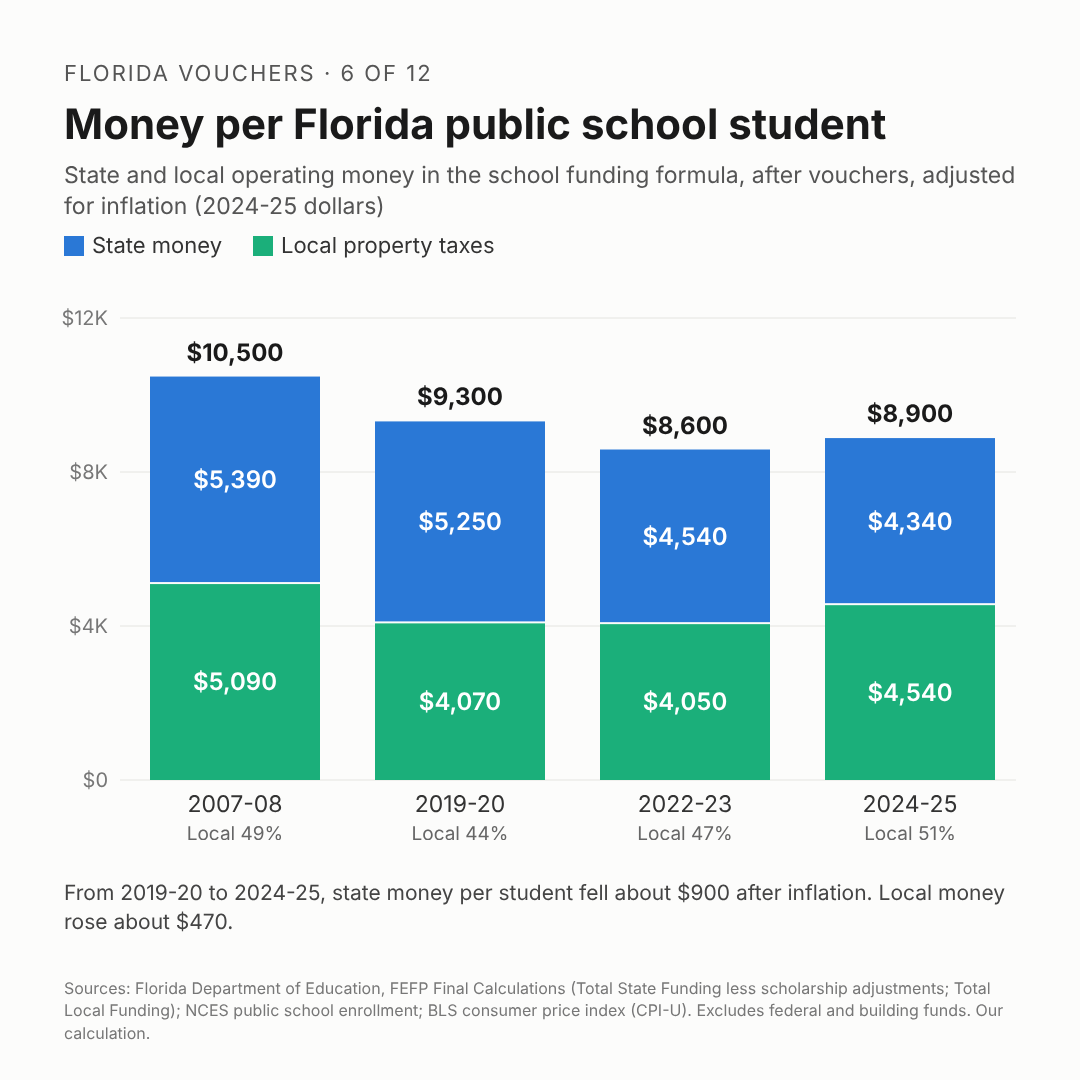
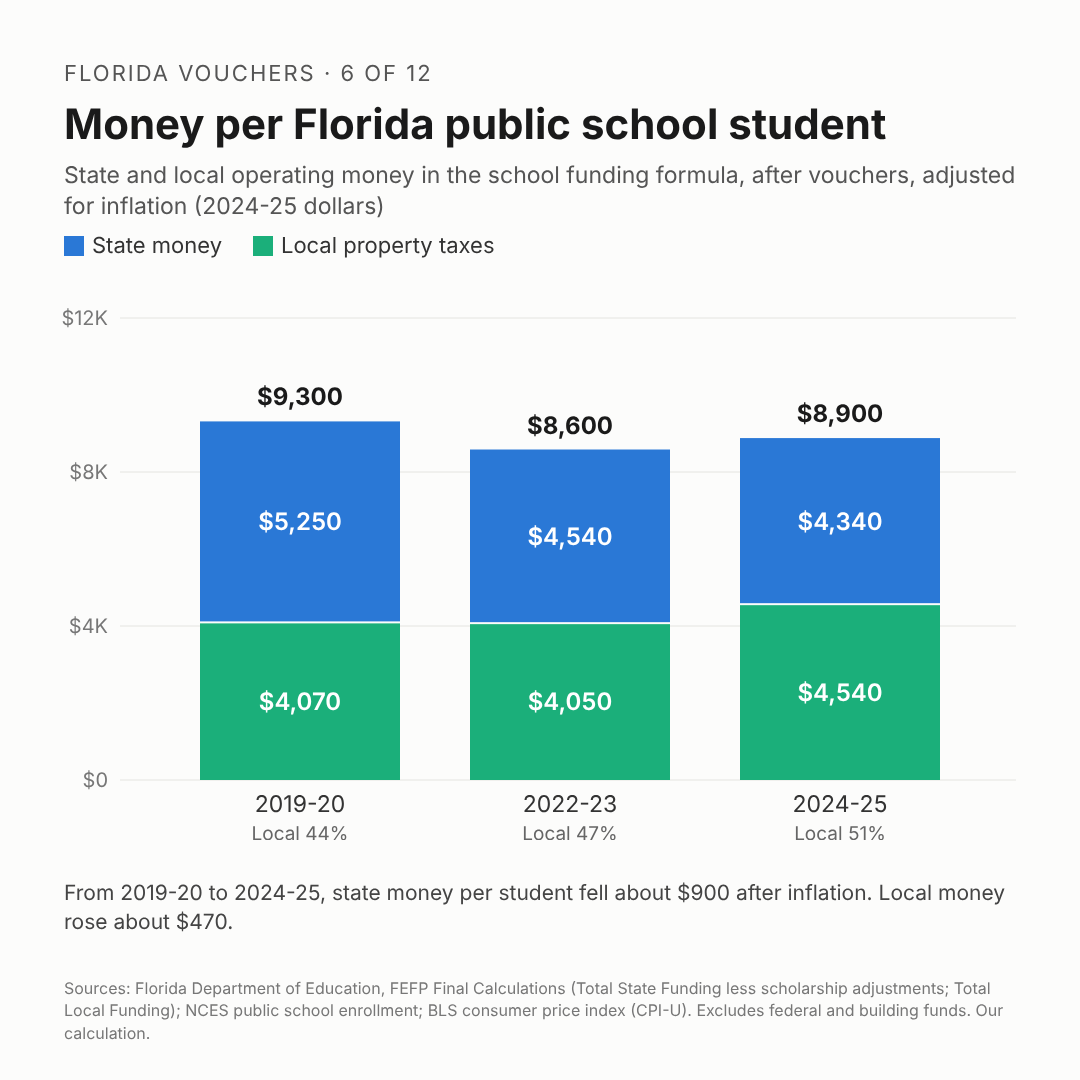
Post 6 draft 2: rewrite around the property tax cushion and its limits
Claude-Session: https://claude.ai/code/session_016LYyWm4MBRFt2tmnYoAYw5

Changed region(s): [[0.1222, 0.3056, 0.9472, 0.7944]]

diff --git a/series/florida-vouchers/06-money-per-student/post.md b/series/florida-vouchers/06-money-per-student/post.md
@@ -1,5 +1,5 @@
 ---
-title: "Florida's Public Schools Lean More on Property Taxes"
+title: "Florida's Public Schools Now Lean on Rising Property Values"
 series: florida-vouchers
 number: 6
 status: draft
@@ -9,7 +9,7 @@ updated: 2026-11-05
 
 # Post 6 of 12: Public schools' money per student, and the property tax backstop
 
-Draft 1, 5 Nov 2026. Plain declarative prose, in date order, in the style RJ settled on for posts 4 and 5. Parts: the post text, the first comment (sources), the fact-check table, the notes (details kept out of the main text), and the editor's notes. Image: [image.png](image.png).
+Draft 2, 5 Nov 2026. Rewritten around the risk at RJ's request. Plain declarative prose, in date order. Parts: the post text, the first comment (sources), the fact-check table, the notes (details kept out of the main text), and the editor's notes. Image: [image.png](image.png).
 
 ---
 
@@ -17,27 +17,27 @@ Draft 1, 5 Nov 2026. Plain declarative prose, in date order, in the style RJ set
 
 Florida vouchers, 6 of 12
 
-Florida's Public Schools Lean More on Property Taxes
+Florida's Public Schools Now Lean on Rising Property Values
 
-From 2019-20 to 2024-25, the state money left for Florida's public schools after vouchers barely grew. Local property taxes grew much faster. They now pay more than half of what public schools get from the state's school funding formula.
+Since 2019, vouchers have taken almost all of the new state money for Florida's schools. Public schools held close to even because local property taxes rose with property values. That works only as long as values keep rising and school taxes stay in place.
 
-Florida pays for public schools' day-to-day costs through one formula. The money comes from two places: the state budget and local school property taxes. Each year, the Legislature decides how much property tax school districts must raise in all. The state's education commissioner then sets the tax rate each district must levy. Districts may add a smaller tax of their own. As the last post explained, voucher money comes out of the state's part.
+In 2019-20, Florida's school funding formula gave public schools about $9,300 per student, in 2024-25 dollars. The state paid 56 percent and local school property taxes paid the rest. Each year, lawmakers set the formula's total and decide how much of it property taxes must raise. The state pays the rest.
 
-In 2007-08, the formula gave public schools about $10,500 per student, in 2024-25 dollars. The state and property taxes each paid about half. These figures are our calculation from the Department of Education's final funding reports and federal enrollment counts, adjusted for inflation with the federal consumer price index.
+Over the next five years, the state's school money rose $3.1 billion, according to the Department of Education. Vouchers took $2.8 billion of it. The state money left for public schools rose $270 million, or 2 percent. Prices rose about 24 percent over the same years. The number of public school students stayed about the same, at 2.86 million, according to federal data.
 
-Money per student fell in the recession that followed. By 2019-20, it was about $9,300 after inflation, and the state paid 56 percent. The property tax lawmakers required that year was $7.9 billion, about the same as in 2007-08 before inflation.
+Property taxes filled most of the gap. The value of property for school taxes rose by two-thirds. Lawmakers raised the property tax they require from districts from $7.9 billion to $10.4 billion, even as the tax rate fell by about a fifth. With districts' own taxes added, local money for public schools rose $3.6 billion, or 38 percent. These dollar figures are not adjusted for inflation.
 
-Then property values rose. From 2019-20 to 2024-25, the taxable value of property for school taxes rose by two-thirds, according to the department. Lawmakers raised the required property tax to $10.4 billion. The tax rate fell by about a fifth, but the higher values brought in more money. With districts' own taxes added, local money for public schools rose $3.6 billion, or 38 percent.
+After inflation, the state's money per public school student fell from about $5,250 to $4,340. Local money rose from about $4,070 to $4,540. In 2024-25, property taxes paid 51 percent. These per-student figures are our calculation from the department's final funding reports, federal enrollment counts and the federal consumer price index.
 
-Over the same years, the state's school money rose $3.1 billion. Vouchers took $2.8 billion of it. The part left for public schools rose $270 million, or 2 percent. These dollar figures are not adjusted for inflation. The number of public school students was about the same in both years, 2.86 million, according to federal data.
+In all, money per student fell about 5 percent, to about $8,900. Most of the drop came by 2022-23, when inflation was high and before vouchers were open to every child. Since then, the total has risen a little, because property taxes grew.
 
-After inflation, the state's money per public school student fell from about $5,250 to $4,340. Local money rose from about $4,070 to $4,540. By 2023-24, property taxes paid half the total. In 2024-25, they paid 51 percent.
+The cushion has limits. If property values flatten, lawmakers must add state money or let money per student fall. Vouchers are paid first: when the formula's money runs short during a year, the law pays vouchers in full and cuts what districts get, Senate staff wrote in 2025.
 
-The total fell about 5 percent, from about $9,300 to $8,900 per student. It fell to about $8,600 by 2022-23, when inflation was high and before vouchers were open to every child. It has risen a little since then, as property taxes grew.
+This year, Gov. Ron DeSantis pushed a constitutional amendment to cut homeowners' property taxes. In June, lawmakers changed it so that it does not apply to school taxes. Voters approved it on Nov. 3.
 
 Sen. Danny Burgess, a Zephyrhills Republican who chairs the Senate's budget committee for public schools, said in May that the new budget "increases per student funding by $150." That is about 1.6 percent, before inflation. Andrew Spar, president of the Florida Education Association, the state teachers union, said in 2025: "Draining dollars out of public schools leaves our public schools short."
 
-In 2007-08, the state and property taxpayers each paid about half. By 2024-25, property taxes paid the larger share, and the state's money per public school student was about a fifth lower after inflation. The next post looks at what this means for a school district, and whether it can cut its costs when students leave.
+In 2019-20, the state paid most of public schools' money. By 2024-25, property taxes paid more, and the state's part per student was about a sixth lower after inflation. The next post looks at what this means for a school district, and whether it can cut its costs when students leave.
 
 Sources are in the first comment.
 
@@ -47,12 +47,15 @@ Sources are in the first comment.
 
 Sources for this post:
 
-1. State and local money in the school funding formula, voucher deductions, the required property tax, tax rates and taxable values (and the image): Florida Department of Education, FEFP Final Calculations for 2007-08 (https://www.fldoe.org/file/7507/0077043-07-08fefp-finalcalc-1.pdf), 2019-20 (https://www.fldoe.org/file/7507/1920FEFPFinalCalc.pdf), 2022-23 (https://www.fldoe.org/file/7507/22-23FEFPFinalCalc.pdf), 2023-24 (https://www.fldoe.org/file/7507/23-24FEFPFinalCalc.pdf) and 2024-25 (https://cdn.fldoe.org/file/7507/2425FEFPFinal.pdf).
+1. State and local money in the school funding formula, voucher deductions, the required property tax, tax rates and taxable values (and the image): Florida Department of Education, FEFP Final Calculations for 2019-20 (https://www.fldoe.org/file/7507/1920FEFPFinalCalc.pdf), 2022-23 (https://www.fldoe.org/file/7507/22-23FEFPFinalCalc.pdf) and 2024-25 (https://cdn.fldoe.org/file/7507/2425FEFPFinal.pdf).
 2. How the required property tax is set: Section 1011.62(4), Florida Statutes. https://www.leg.state.fl.us/Statutes/index.cfm?App_mode=Display_Statute&URL=1000-1099%2F1011%2FSections%2F1011.62.html
-3. Public school enrollment (and the image): National Center for Education Statistics, Digest of Education Statistics, Table 36 (2012) for fall 2007 (https://nces.ed.gov/programs/digest/d12/tables/dt12_036.asp) and Table 203.20 (2023) for fall 2019 and 2022 (https://nces.ed.gov/programs/digest/d23/tables/dt23_203.20.asp); Common Core of Data state summaries for 2023-24 (https://nces.ed.gov/ccd/tables/202324_summary_2.asp) and 2024-25 (https://nces.ed.gov/ccd/tables/202425_summary_2.asp).
+3. Public school enrollment (and the image): National Center for Education Statistics, Digest of Education Statistics, Table 203.20 (2023) for fall 2019 and 2022 (https://nces.ed.gov/programs/digest/d23/tables/dt23_203.20.asp); Common Core of Data state summary for 2024-25 (https://nces.ed.gov/ccd/tables/202425_summary_2.asp).
 4. Inflation (and the image): U.S. Bureau of Labor Statistics, consumer price index for all urban consumers (CPI-U), semiannual averages, via the Federal Reserve Bank of St. Louis. https://fred.stlouisfed.org/series/CUUS0000SA0
-5. Sen. Burgess's statement and the Senate's per-student figures: Florida Senate, "Florida's Balanced Budget Holds the Line on Spending, Maintains Strong Reserves," May 26, 2026, with budget summary. https://flsenate.gov/PublishedContent/Offices/President/Budget_Release_and_Summary_Combined.pdf
-6. Andrew Spar's statement: Danielle Prieur, "DeSantis pitched a record-size education budget," Central Florida Public Media / WUSF, Feb. 4, 2025. https://www.wusf.org/education/2025-02-04/desantis-pitched-record-size-education-budget-florida-teacher-union-concerns
+5. Vouchers paid in full when the money runs short: Florida Senate bill analysis, CS/SB 318, Dec. 12, 2025, p. 21. https://flsenate.gov/Session/Bill/2026/318/Analyses/2026s00318.ap.PDF
+6. The property tax amendment and its exclusion of school taxes: CS/HJR 1-F (2026 Special Session F), bill history and House staff analysis, June 16, 2026 (https://flsenate.gov/Session/Bill/2026F/1); Bloomberg News, via Insurance Journal, "DeSantis Plan to Cut Florida Property Taxes Heads to Ballot—With Schools Removed," June 3, 2026 (https://www.insurancejournal.com/news/southeast/2026/06/03/872300.htm).
+7. Voters' approval: WUSF, "Florida voters approve Amendment 3 property tax reduction," Nov. 3, 2026. https://www.wusf.org/politics-issues/2026-11-03/florida-2026-election-results-voters-approve-amendment-3-property-tax-reduction
+8. Sen. Burgess's statement and the Senate's per-student figures: Florida Senate, "Florida's Balanced Budget Holds the Line on Spending, Maintains Strong Reserves," May 26, 2026, with budget summary. https://flsenate.gov/PublishedContent/Offices/President/Budget_Release_and_Summary_Combined.pdf
+9. Andrew Spar's statement: Danielle Prieur, "DeSantis pitched a record-size education budget," Central Florida Public Media / WUSF, Feb. 4, 2025. https://www.wusf.org/education/2025-02-04/desantis-pitched-record-size-education-budget-florida-teacher-union-concerns
 
 ---
 
@@ -70,37 +73,38 @@ Method for every per-student figure: (Total State Funding less the scholarship a
 
 | Claim in the post | Source and what it says |
 |---|---|
-| State money left after vouchers barely grew, 2019-20 to 2024-25 | $12,140.5M to $12,409.9M, up $269.4M (2.2 percent). Final Calculations, table above |
-| Local property taxes grew much faster; now more than half | Total Local Funding $9,415.0M to $12,986.4M, up $3,571.5M (37.9 percent); local share 51.1 percent in 2024-25 (table above) |
-| One formula; state budget plus local school property taxes | Each Final Calculation: "Total State Funding" plus "Total Local Funding" equals total FEFP funding. Section 1011.62, F.S. |
-| Legislature sets the total required property tax; the commissioner sets each district's rate | Section 1011.62(4)(a), F.S.: the Legislature prescribes the aggregate required local effort, and the Commissioner of Education computes and certifies each district's millage, applied to 96 percent of taxable value |
-| Districts may add a smaller tax of their own | 2024-25 Final Calculation: discretionary millage of 0.748 mills raised $2,609,307,687, against $10,377,115,280 in required local effort |
-| Voucher money comes out of the state's part | Final Calculations: "Adjustment for Family Empowerment Scholarships" deducted from the state share (post 5) |
-| 2007-08: about $10,500 per student, in 2024-25 dollars; about half and half | Table above: $10,479; local 48.6 percent, state 51.4 percent |
-| Money per student fell in the recession | Project spreadsheet, "Per student" sheet (same sources, calendar-year CPI): $10,501 (2007-08), $9,997 (2008-09), $8,611 (2011-12), in 2024-25 dollars |
-| 2019-20: about $9,300; state paid 56 percent | Table above: $9,315; state 56.3 percent |
-| Required property tax $7.9 billion in 2019-20, about the same as 2007-08 before inflation | Final Calculations: $7,856,925,320 (2019-20) at 3.888 mills; $7,902,582,747 (2007-08) at 4.843 mills |
-| Taxable value up two-thirds, 2019-20 to 2024-25 | School taxable value $2,169,716,073,407 (2019-20) to $3,633,728,396,941 (2024-25): up 67.5 percent |
-| Required property tax raised to $10.4 billion | 2024-25 Final Calculation: $10,377,115,280 (up 32.1 percent from 2019-20) |
-| Tax rate fell by about a fifth | 3.888 to 3.087 mills: down 20.6 percent |
-| Local money up $3.6 billion, 38 percent | Total Local Funding, table above |
-| State's school money up $3.1 billion; vouchers took $2.8 billion; the rest up $270 million, 2 percent | Total State Funding $12,466.8M to $15,583.7M (up $3,116.9M). Scholarship adjustments $326.3M to $3,173.8M (up $2,847.5M, 91 percent of the increase). Left: up $269.4M (2.2 percent) |
-| Not adjusted for inflation | Nominal, as reported |
-| 2.86 million students in both years | NCES: 2,858,461 (fall 2019); 2,859,600 (2024-25) |
-| State per student $5,250 to $4,340; local $4,070 to $4,540 | Table above: 5,246 to 4,340 (down 906); 4,068 to 4,541 (up 473) |
-| Property taxes paid half by 2023-24; 51 percent in 2024-25 | 2023-24: $12,310.5M / ($12,291.5M + $12,310.5M) = 50.04 percent. 2024-25: 51.1 percent |
-| Total fell about 5 percent, $9,300 to $8,900 | 9,315 to 8,881: down 434, 4.7 percent |
-| About $8,600 by 2022-23; inflation high; vouchers not yet open to every child | 8,584 (table). CPI-U rose 16.5 percent from 2019-20 to 2022-23 (257.23 to 299.69). Universal eligibility began in 2023-24 (Chapter 2023-16, Laws of Florida; post 2) |
-| Risen a little since, as property taxes grew | 8,584 to 8,881 (up 297); local per student up 493, state per student down 196 (table) |
+| Since 2019, vouchers took almost all new state school money | 2019-20 to 2024-25: Total State Funding up $3,116.9M; scholarship adjustments up $2,847.5M (91 percent). Final Calculations |
+| Public schools held close to even | Total per student, 2024-25 dollars: 9,315 to 8,881, down 4.7 percent (table above) |
+| 2019-20: about $9,300 per student; state 56 percent | Table above: $9,315; state 56.3 percent |
+| Lawmakers set the total and the required property tax; the state pays the rest | Section 1011.62(4), F.S.: the Legislature prescribes the aggregate required local effort; the commissioner certifies each district's millage. Each Final Calculation: a district's state share is its formula total less its required local effort and discretionary local funds |
+| State money up $3.1B; vouchers took $2.8B; the rest up $270M, 2 percent | Total State Funding $12,466,845,135 to $15,583,715,574 (up $3,116.9M). Scholarship adjustments $326,311,176 (McKay $223,447,146 + FES $102,864,030) to $3,173,823,878 (up $2,847.5M). Left: $12,140.5M to $12,409.9M (up $269.4M, 2.2 percent) |
+| Prices rose about 24 percent | CPI-U school-year index 257.23 (2019-20) to 317.73 (2024-25): up 23.5 percent |
+| 2.86 million students | NCES: 2,858,461 (fall 2019); 2,859,600 (2024-25) |
+| Taxable value up two-thirds | School taxable value $2,169,716,073,407 to $3,633,728,396,941: up 67.5 percent |
+| Required property tax $7.9B to $10.4B; rate down about a fifth | Required local effort $7,856,925,320 at 3.888 mills (2019-20); $10,377,115,280 at 3.087 mills (2024-25); rate down 20.6 percent |
+| Districts' own taxes | 2024-25: discretionary 0.748 mills raised $2,609,307,687 (Final Calculation) |
+| Local money up $3.6B, 38 percent | Total Local Funding $9,414,955,038 to $12,986,422,967: up $3,571.5M, 37.9 percent |
+| Nominal | As reported |
+| State per student $5,250 to $4,340; local $4,070 to $4,540; 51 percent | Table above: 5,246 to 4,340; 4,068 to 4,541; local share 51.1 percent |
+| Down about 5 percent, to about $8,900 | 9,315 to 8,881 |
+| Most of the drop by 2022-23; high inflation; before universal vouchers | 8,584 in 2022-23 (down 731 from 2019-20; then up 297 by 2024-25). CPI-U up 16.5 percent, 2019-20 to 2022-23. Universal eligibility began 2023-24 (Chapter 2023-16, Laws of Florida) |
+| Risen since because property taxes grew | 2022-23 to 2024-25: local per student up 493, state per student down 196 |
+| If values flatten, lawmakers must add state money or let money per student fall | Follows from the formula: total = state share + local funding, with the total set in the budget each year (s. 1011.62, F.S.). Our reading of the statute, stated as a condition |
+| Vouchers paid in full; districts cut; Senate staff, 2025 | CS/SB 318 analysis, Dec. 12, 2025, p. 21: "Under current law, only school district FEFP funding is prorated, FES scholarship awards are not impacted." |
+| Gov. DeSantis's amendment; lawmakers took school taxes out in June | Bloomberg via Insurance Journal, June 3, 2026: committees "amended the proposal on Monday to exclude school districts." Enacted CS/HJR 1-F (filed with the Secretary of State June 16, 2026); House staff analysis: the new exemption applies to "non-school taxes only"; adopted amendment 981571: "For all levies other than school district levies" |
+| Voters approved it Nov. 3 | WUSF, Nov. 3, 2026: nearly 62 percent yes (60 percent needed); "The tax reduction will affect homestead exemptions on the property taxes that don't go toward schools." |
 | Sen. Burgess's title and quote | Senate release, May 26, 2026: Sen. Danny Burgess (R-Zephyrhills), Chair of the Senate Appropriations Committee on Pre-K-12 Education: "This level of funding increases per student funding by $150 and increases the Base Student Allocation by $85." |
-| About 1.6 percent, before inflation | Senate budget summary: total funds per student $9,187.36 to $9,337.67, up $150.31; 150.31 / 9,187.36 = 1.64 percent. Nominal |
-| Spar quote | WUSF, Feb. 4, 2025: "Draining dollars out of public schools leaves our public schools short." Spar is FEA president (same article) |
-| State's money per student about a fifth lower than 2007-08 | 5,390 to 4,340: down 19.5 percent |
+| About 1.6 percent, before inflation | Senate budget summary: $9,187.36 to $9,337.67 per student, up $150.31 (1.64 percent). Nominal |
+| Spar quote | WUSF, Feb. 4, 2025: "Draining dollars out of public schools leaves our public schools short." |
+| State's part per student about a sixth lower | 5,246 to 4,340: down 17.3 percent |
 
 ---
 
 ## Notes: details kept out of the main text
 
+- **2007-08 (in draft 1's text, cut in draft 2).** About $10,500 per student in 2024-25 dollars, state 51 percent and local 49 percent (table above). The required local effort was $7,902,582,747 at 4.843 mills, about the same in dollars as 2019-20 (2007-08 Final Calculation, https://www.fldoe.org/file/7507/0077043-07-08fefp-finalcalc-1.pdf). Enrollment 2,666,811 (NCES Digest 2012, Table 36). Money per student fell in the recession and had not recovered by 2019-20.
+- **The school share of the amendment, had it applied.** Bloomberg reported that a fiscal analysis put the cut to school district property tax revenue at $3.4 billion in 2027 and $5.6 billion in 2028 if schools had been included. The primary analysis was not found; the House staff analysis of the enacted version estimates only non-school losses ($4.95 billion in 2027-28, $8.78 billion in 2028-29, $11.86 billion recurring). Use only after finding the primary estimate.
+- **No court-set floor.** In Citizens for Strong Schools v. State Board of Education (Fla. Jan. 4, 2019, SC18-67), a divided court rejected a broad challenge to school funding under Article IX, section 1, holding that the plaintiffs had not offered a manageable standard; Justices Pariente and Lewis dissented. Wording and vote to confirm from the opinion before use.
 - **2025-26 (preliminary, not in the text).** The 2025-26 Final Calculation (Oct. 5, 2026) shows Total State Funding $15,573,752,524, Family Empowerment adjustment $3,906,797,314, state left $11,666,955,210, Total Local Funding $13,658,001,644, required local effort $10,909,379,489 at 3.092 mills, taxable value $3,827,738,074,700. Local share 53.9 percent. With the Education Estimating Conference's public enrollment of about 2,790,700 (not yet an NCES count) and CPI-U (324.000+330.724)/2 = 327.36: state about $4,060, local about $4,750, total about $8,810 per student in 2024-25 dollars. Use once NCES publishes the 2025-26 count.
 - **Why the Senate's per-student figure differs from ours.** The Senate's $9,337.67 is total FEFP funds divided by all students in the formula, which since 2023-24 include Family Empowerment scholarship students (2025-26 unweighted FTE: 3,178,422.96, against about 2.79 million public students). Ours removes voucher money and divides by public school students only. Both are nominal in the Senate's case.
 - **The recession years.** Local money paid more than half of the formula in 2008-09 (52.6 percent) and 2009-10 (53.1 percent), when property tax collections lagged the fall in state revenue (project spreadsheet, "State vs local" sheet). Those years also had about $0.9 billion a year in federal stimulus money, excluded here. So 2023-24 is not the first year local money passed half.
@@ -115,6 +119,15 @@ Method for every per-student figure: (Total State Funding less the scholarship a
 ---
 
 ## Editor's notes
+
+**Draft 2 (5 Nov 2026, RJ: "I am not sure what the point is... what are the implications or risks?"):**
+- New headline and point: public schools held close to even only because property taxes rose with values; that cushion has limits.
+- Opens on 2019-20, not 2007-08 (moved to the notes), to cut numbers and start where vouchers began to grow.
+- The formula is two sentences. The equalization and recession details stay in the notes.
+- New paragraphs on the risk: if values flatten, lawmakers must add state money or let money per student fall; vouchers are paid first; the 2026 amendment, which lawmakers changed so it does not touch school taxes, and voters' approval.
+- Closing: "about a sixth lower" (17.3 percent). In the thread I had said "about a fifth" for the state money left; corrected.
+- Image: 2007-08 bar dropped so the image matches the text.
+- About 525 words.
 
 **Draft 1 (5 Nov 2026):**
 - One idea: the state's part per public school student fell after inflation while local property taxes rose, so local taxes now pay the larger share.

diff --git a/README.md b/README.md
@@ -20,4 +20,4 @@ Each `post.md` starts with front matter (title, series, number, status, image, u
 
 ## Series
 
-- [Florida's voucher programs](series/florida-vouchers/plan.md): a 12-post series for legislators in other states. Post 1: [How Florida Went From Vouchers for a Few Children to Vouchers for Every Child](series/florida-vouchers/01-how-florida-got-here/post.md). Post 2 (draft): [Who Gets Florida's Vouchers, and Where Were They Before?](series/florida-vouchers/02-who-gets-vouchers/post.md). Post 3 (draft): [Charter Schools and Home Schooling](series/florida-vouchers/03-charters-and-home-schooling/post.md). Post 4 (draft): [Religious Schools and Florida's Vouchers](series/florida-vouchers/04-religious-schools/post.md). Post 5 (draft 5): [Do Florida's Vouchers Save Money?](series/florida-vouchers/05-what-vouchers-cost/post.md). Post 6 (draft 1): [Florida's Public Schools Lean More on Property Taxes](series/florida-vouchers/06-money-per-student/post.md).
+- [Florida's voucher programs](series/florida-vouchers/plan.md): a 12-post series for legislators in other states. Post 1: [How Florida Went From Vouchers for a Few Children to Vouchers for Every Child](series/florida-vouchers/01-how-florida-got-here/post.md). Post 2 (draft): [Who Gets Florida's Vouchers, and Where Were They Before?](series/florida-vouchers/02-who-gets-vouchers/post.md). Post 3 (draft): [Charter Schools and Home Schooling](series/florida-vouchers/03-charters-and-home-schooling/post.md). Post 4 (draft): [Religious Schools and Florida's Vouchers](series/florida-vouchers/04-religious-schools/post.md). Post 5 (draft 5): [Do Florida's Vouchers Save Money?](series/florida-vouchers/05-what-vouchers-cost/post.md). Post 6 (draft 2): [Florida's Public Schools Now Lean on Rising Property Values](series/florida-vouchers/06-money-per-student/post.md).
